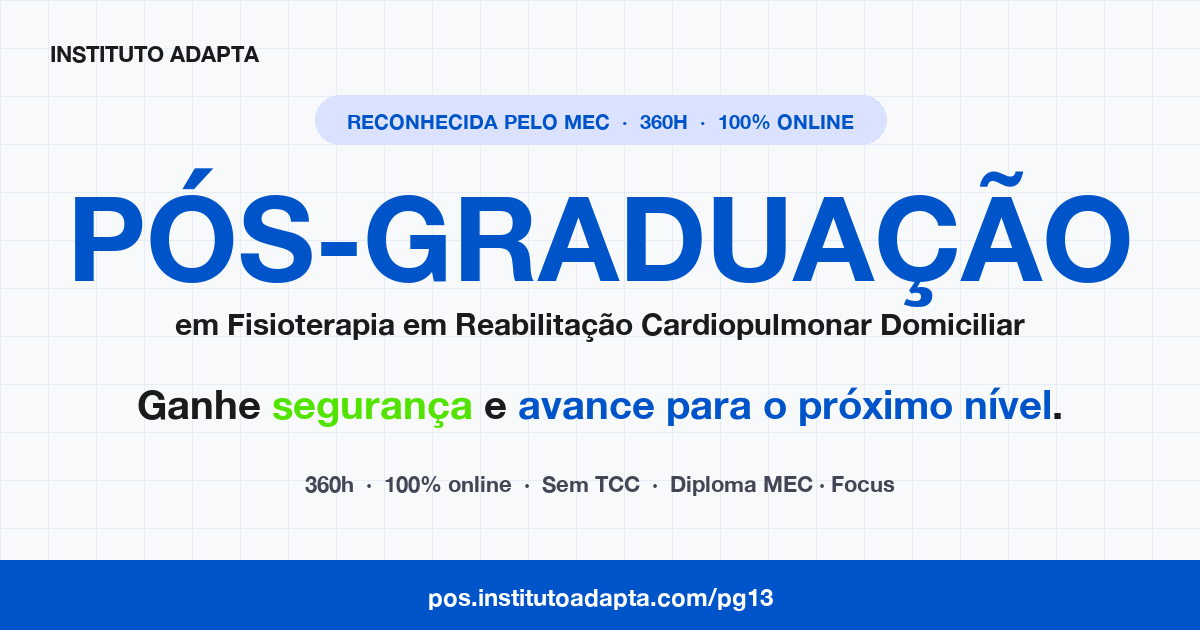
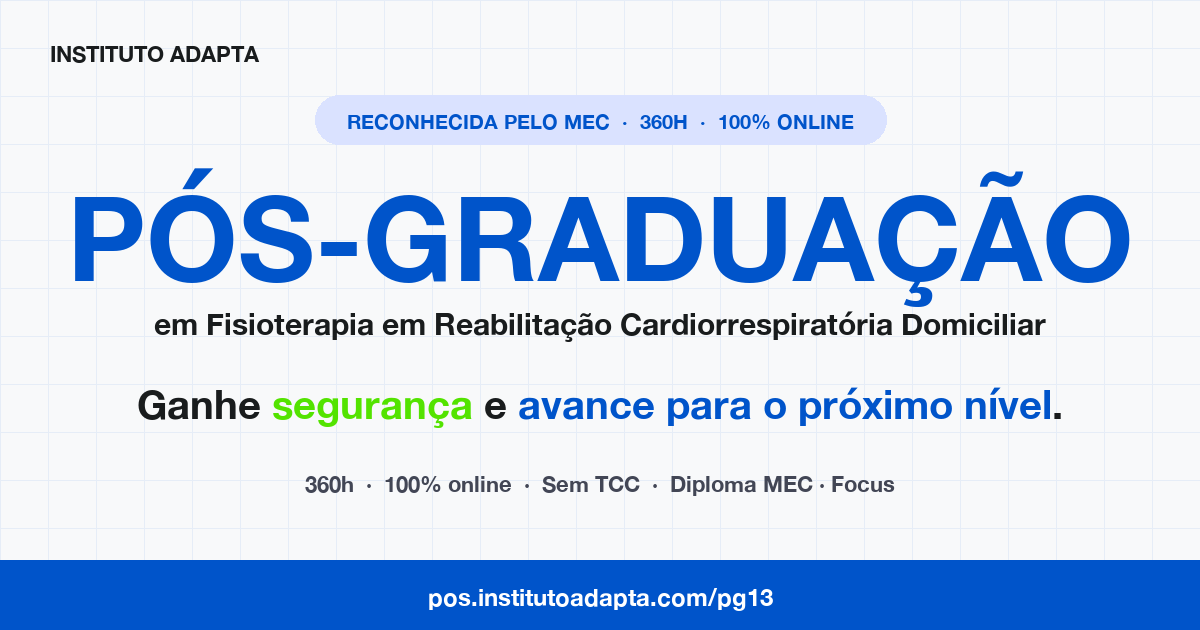
pg13/v1: Cardiopulmonar -> Cardiorrespiratoria e ajuste em fisioterapia respiratoria -> em fisioterapia cardiorrespiratoria domiciliar (HTML + OG)

Changed region(s): [[0.1233, 0.4825, 0.8633, 0.5429]]

diff --git a/pg13/v1/index.html b/pg13/v1/index.html
@@ -3,10 +3,10 @@
 <head>
 <meta charset="utf-8"/>
 <meta content="width=device-width, initial-scale=1.0" name="viewport"/>
-<title>Pós-Graduação em Fisioterapia em Reabilitação Cardiopulmonar Domiciliar | Instituto Adapta</title>
-<meta name="description" content="Pós-Graduação em Fisioterapia em Reabilitação Cardiopulmonar Domiciliar. 360h, 100% online, sem TCC, certificado MEC. Instituto Adapta + Faculdade Focus."/>
-<meta property="og:title" content="Pós em Fisioterapia em Reabilitação Cardiopulmonar Domiciliar"/>
-<meta property="og:description" content="Ganhe segurança, destaque no mercado e avance para o próximo nível em fisioterapia respiratória — uma das áreas que mais crescem no home care."/>
+<title>Pós-Graduação em Fisioterapia em Reabilitação Cardiorrespiratória Domiciliar | Instituto Adapta</title>
+<meta name="description" content="Pós-Graduação em Fisioterapia em Reabilitação Cardiorrespiratória Domiciliar. 360h, 100% online, sem TCC, certificado MEC. Instituto Adapta + Faculdade Focus."/>
+<meta property="og:title" content="Pós em Fisioterapia em Reabilitação Cardiorrespiratória Domiciliar"/>
+<meta property="og:description" content="Ganhe segurança, destaque no mercado e avance para o próximo nível em fisioterapia cardiorrespiratória domiciliar — uma das áreas que mais crescem no home care."/>
 <meta property="og:type" content="website"/>
 <meta property="og:url" content="https://pos.institutoadapta.com/pg13/v1/"/>
 <meta property="og:image" content="https://pos.institutoadapta.com/pg13/v1/og.png"/>
@@ -14,10 +14,10 @@
 <meta property="og:image:type" content="image/png"/>
 <meta property="og:image:width" content="1200"/>
 <meta property="og:image:height" content="630"/>
-<meta property="og:image:alt" content="Pós-Graduação em Fisioterapia em Reabilitação Cardiopulmonar Domiciliar — Instituto Adapta"/>
+<meta property="og:image:alt" content="Pós-Graduação em Fisioterapia em Reabilitação Cardiorrespiratória Domiciliar — Instituto Adapta"/>
 <meta property="og:locale" content="pt_BR"/>
 <meta name="twitter:card" content="summary_large_image"/>
-<meta name="twitter:title" content="Pós em Fisioterapia em Reabilitação Cardiopulmonar Domiciliar"/>
+<meta name="twitter:title" content="Pós em Fisioterapia em Reabilitação Cardiorrespiratória Domiciliar"/>
 <meta name="twitter:description" content="Reabilite pacientes cardíacos e respiratórios em domicílio com método e respaldo científico."/>
 <meta name="twitter:image" content="https://pos.institutoadapta.com/pg13/v1/og.png"/>
 <link rel="icon" href="../../images/brand/favicon.ico" sizes="any"/>
@@ -120,11 +120,11 @@
 
       <div class="space-y-2 pt-2">
         <p class="text-primary font-black text-4xl md:text-6xl lg:text-7xl tracking-tighter uppercase leading-none">Pós-Graduação</p>
-        <p class="text-on-surface font-bold text-base md:text-xl lg:text-2xl tracking-wide max-w-3xl mx-auto">em Fisioterapia em Reabilitação Cardiopulmonar Domiciliar</p>
+        <p class="text-on-surface font-bold text-base md:text-xl lg:text-2xl tracking-wide max-w-3xl mx-auto">em Fisioterapia em Reabilitação Cardiorrespiratória Domiciliar</p>
       </div>
 
       <h1 class="text-4xl md:text-5xl lg:text-[3.4rem] font-extrabold tracking-tight leading-[1.05] text-on-surface max-w-4xl mx-auto">
-        Ganhe <span class="text-tertiary-fixed-dim">segurança</span>, destaque no mercado e <span class="text-primary">avance para o próximo nível</span> em fisioterapia respiratória.
+        Ganhe <span class="text-tertiary-fixed-dim">segurança</span>, destaque no mercado e <span class="text-primary">avance para o próximo nível</span> em fisioterapia cardiorrespiratória domiciliar.
       </h1>
 
       <p class="text-lg md:text-xl text-on-surface-variant leading-relaxed max-w-3xl mx-auto">
@@ -330,7 +330,7 @@
           <span class="material-symbols-outlined" style="font-variation-settings: 'FILL' 1;">home_health</span>
         </div>
         <div>
-          <h3 class="text-lg font-extrabold mb-1">Atuar na reabilitação de pacientes cardiopulmonares em domicílio</h3>
+          <h3 class="text-lg font-extrabold mb-1">Atuar na reabilitação de pacientes cardiorrespiratórios em domicílio</h3>
           <p class="text-sm text-on-surface-variant leading-relaxed">Atendimento de qualidade diretamente no ambiente do paciente, com segurança e respaldo científico.</p>
         </div>
       </div>
@@ -519,7 +519,7 @@
     <div class="text-center max-w-3xl mx-auto mb-14">
       <p class="text-primary font-bold text-xs tracking-widest uppercase mb-4">Corpo docente</p>
       <h2 class="text-3xl md:text-5xl font-extrabold tracking-tight leading-[1.1]">Aprenda com quem vive a <span class="text-primary">prática clínica</span> e a <span class="text-primary">pesquisa</span>.</h2>
-      <p class="text-on-surface-variant text-base md:text-lg mt-5 leading-relaxed">Profissionais altamente qualificados e atuantes em fisioterapia respiratória e reabilitação cardiorrespiratória.</p>
+      <p class="text-on-surface-variant text-base md:text-lg mt-5 leading-relaxed">Profissionais altamente qualificados e atuantes em fisioterapia cardiorrespiratória domiciliar e reabilitação cardiorrespiratória.</p>
     </div>
 
     <div class="grid md:grid-cols-3 gap-5">
@@ -532,7 +532,7 @@
           Coordenação
         </div>
         <h3 class="text-xl font-extrabold mb-2 leading-tight">Dra. Ana Paula Breda</h3>
-        <p class="text-sm text-on-surface-variant leading-relaxed">Atuante na reabilitação cardiopulmonar com base na prática clínica e na pesquisa científica.</p>
+        <p class="text-sm text-on-surface-variant leading-relaxed">Atuante na reabilitação cardiorrespiratória com base na prática clínica e na pesquisa científica.</p>
       </div>
 
       <div class="bg-surface-container-lowest rounded-3xl p-8 shadow-sm">
@@ -541,7 +541,7 @@
         </div>
         <p class="text-[10px] font-bold tracking-widest uppercase text-primary mb-3">Docente</p>
         <h3 class="text-xl font-extrabold mb-2 leading-tight">Prof.ª Juliana Moura</h3>
-        <p class="text-sm text-on-surface-variant leading-relaxed">Especialista em fisioterapia respiratória com experiência consolidada no atendimento domiciliar.</p>
+        <p class="text-sm text-on-surface-variant leading-relaxed">Especialista em fisioterapia cardiorrespiratória domiciliar com experiência consolidada no atendimento domiciliar.</p>
       </div>
 
       <div class="bg-surface-container-lowest rounded-3xl p-8 shadow-sm">
@@ -550,7 +550,7 @@
         </div>
         <p class="text-[10px] font-bold tracking-widest uppercase text-primary mb-3">Docente</p>
         <h3 class="text-xl font-extrabold mb-2 leading-tight">Prof.ª Cristiane Paião</h3>
-        <p class="text-sm text-on-surface-variant leading-relaxed">Reabilitação cardiopulmonar com olhar prático para protocolos individualizados no domicílio.</p>
+        <p class="text-sm text-on-surface-variant leading-relaxed">Reabilitação cardiorrespiratória com olhar prático para protocolos individualizados no domicílio.</p>
       </div>
     </div>
   </div>
@@ -632,7 +632,7 @@
     <div class="bg-surface-container-lowest rounded-[2rem] shadow-xl shadow-primary/10 overflow-hidden">
       <div class="hero-gradient text-white p-10 md:p-12 text-center">
         <p class="text-tertiary-fixed-dim text-xs font-bold tracking-widest uppercase mb-4">Pós-graduação completa</p>
-        <h3 class="text-2xl md:text-3xl font-extrabold mb-6">Fisioterapia em Reabilitação Cardiopulmonar Domiciliar</h3>
+        <h3 class="text-2xl md:text-3xl font-extrabold mb-6">Fisioterapia em Reabilitação Cardiorrespiratória Domiciliar</h3>
 
         <div class="flex flex-col items-center gap-2 mb-2">
           <p class="text-base text-white/70">De <span class="line-through">R$ 9.997</span></p>
@@ -832,7 +832,7 @@
         <img src="../../images/brand/instituto-adapta-logo.png" alt="Instituto Adapta" class="h-14 w-auto" />
       </a>
       <p class="text-slate-500 text-sm leading-relaxed">
-        Pós-graduação em Fisioterapia em Reabilitação Cardiopulmonar Domiciliar. Educação continuada para profissionais que querem dar o próximo passo no home care.
+        Pós-graduação em Fisioterapia em Reabilitação Cardiorrespiratória Domiciliar. Educação continuada para profissionais que querem dar o próximo passo no home care.
       </p>
       <div class="flex gap-4">
         <a class="w-10 h-10 rounded-full bg-slate-200 flex items-center justify-center text-slate-600 hover:bg-primary hover:text-white transition-all" href="https://institutoadapta.com" target="_blank" rel="noopener">

diff --git a/pg13/v1/_gen_og.py b/pg13/v1/_gen_og.py
@@ -118,7 +118,7 @@ def main():
     f_sub = font(30)
     draw_centered(
         d, cx, 305,
-        "em Fisioterapia em Reabilitação Cardiopulmonar Domiciliar",
+        "em Fisioterapia em Reabilitação Cardiorrespiratória Domiciliar",
         f_sub, fill=INK,
     )
 
